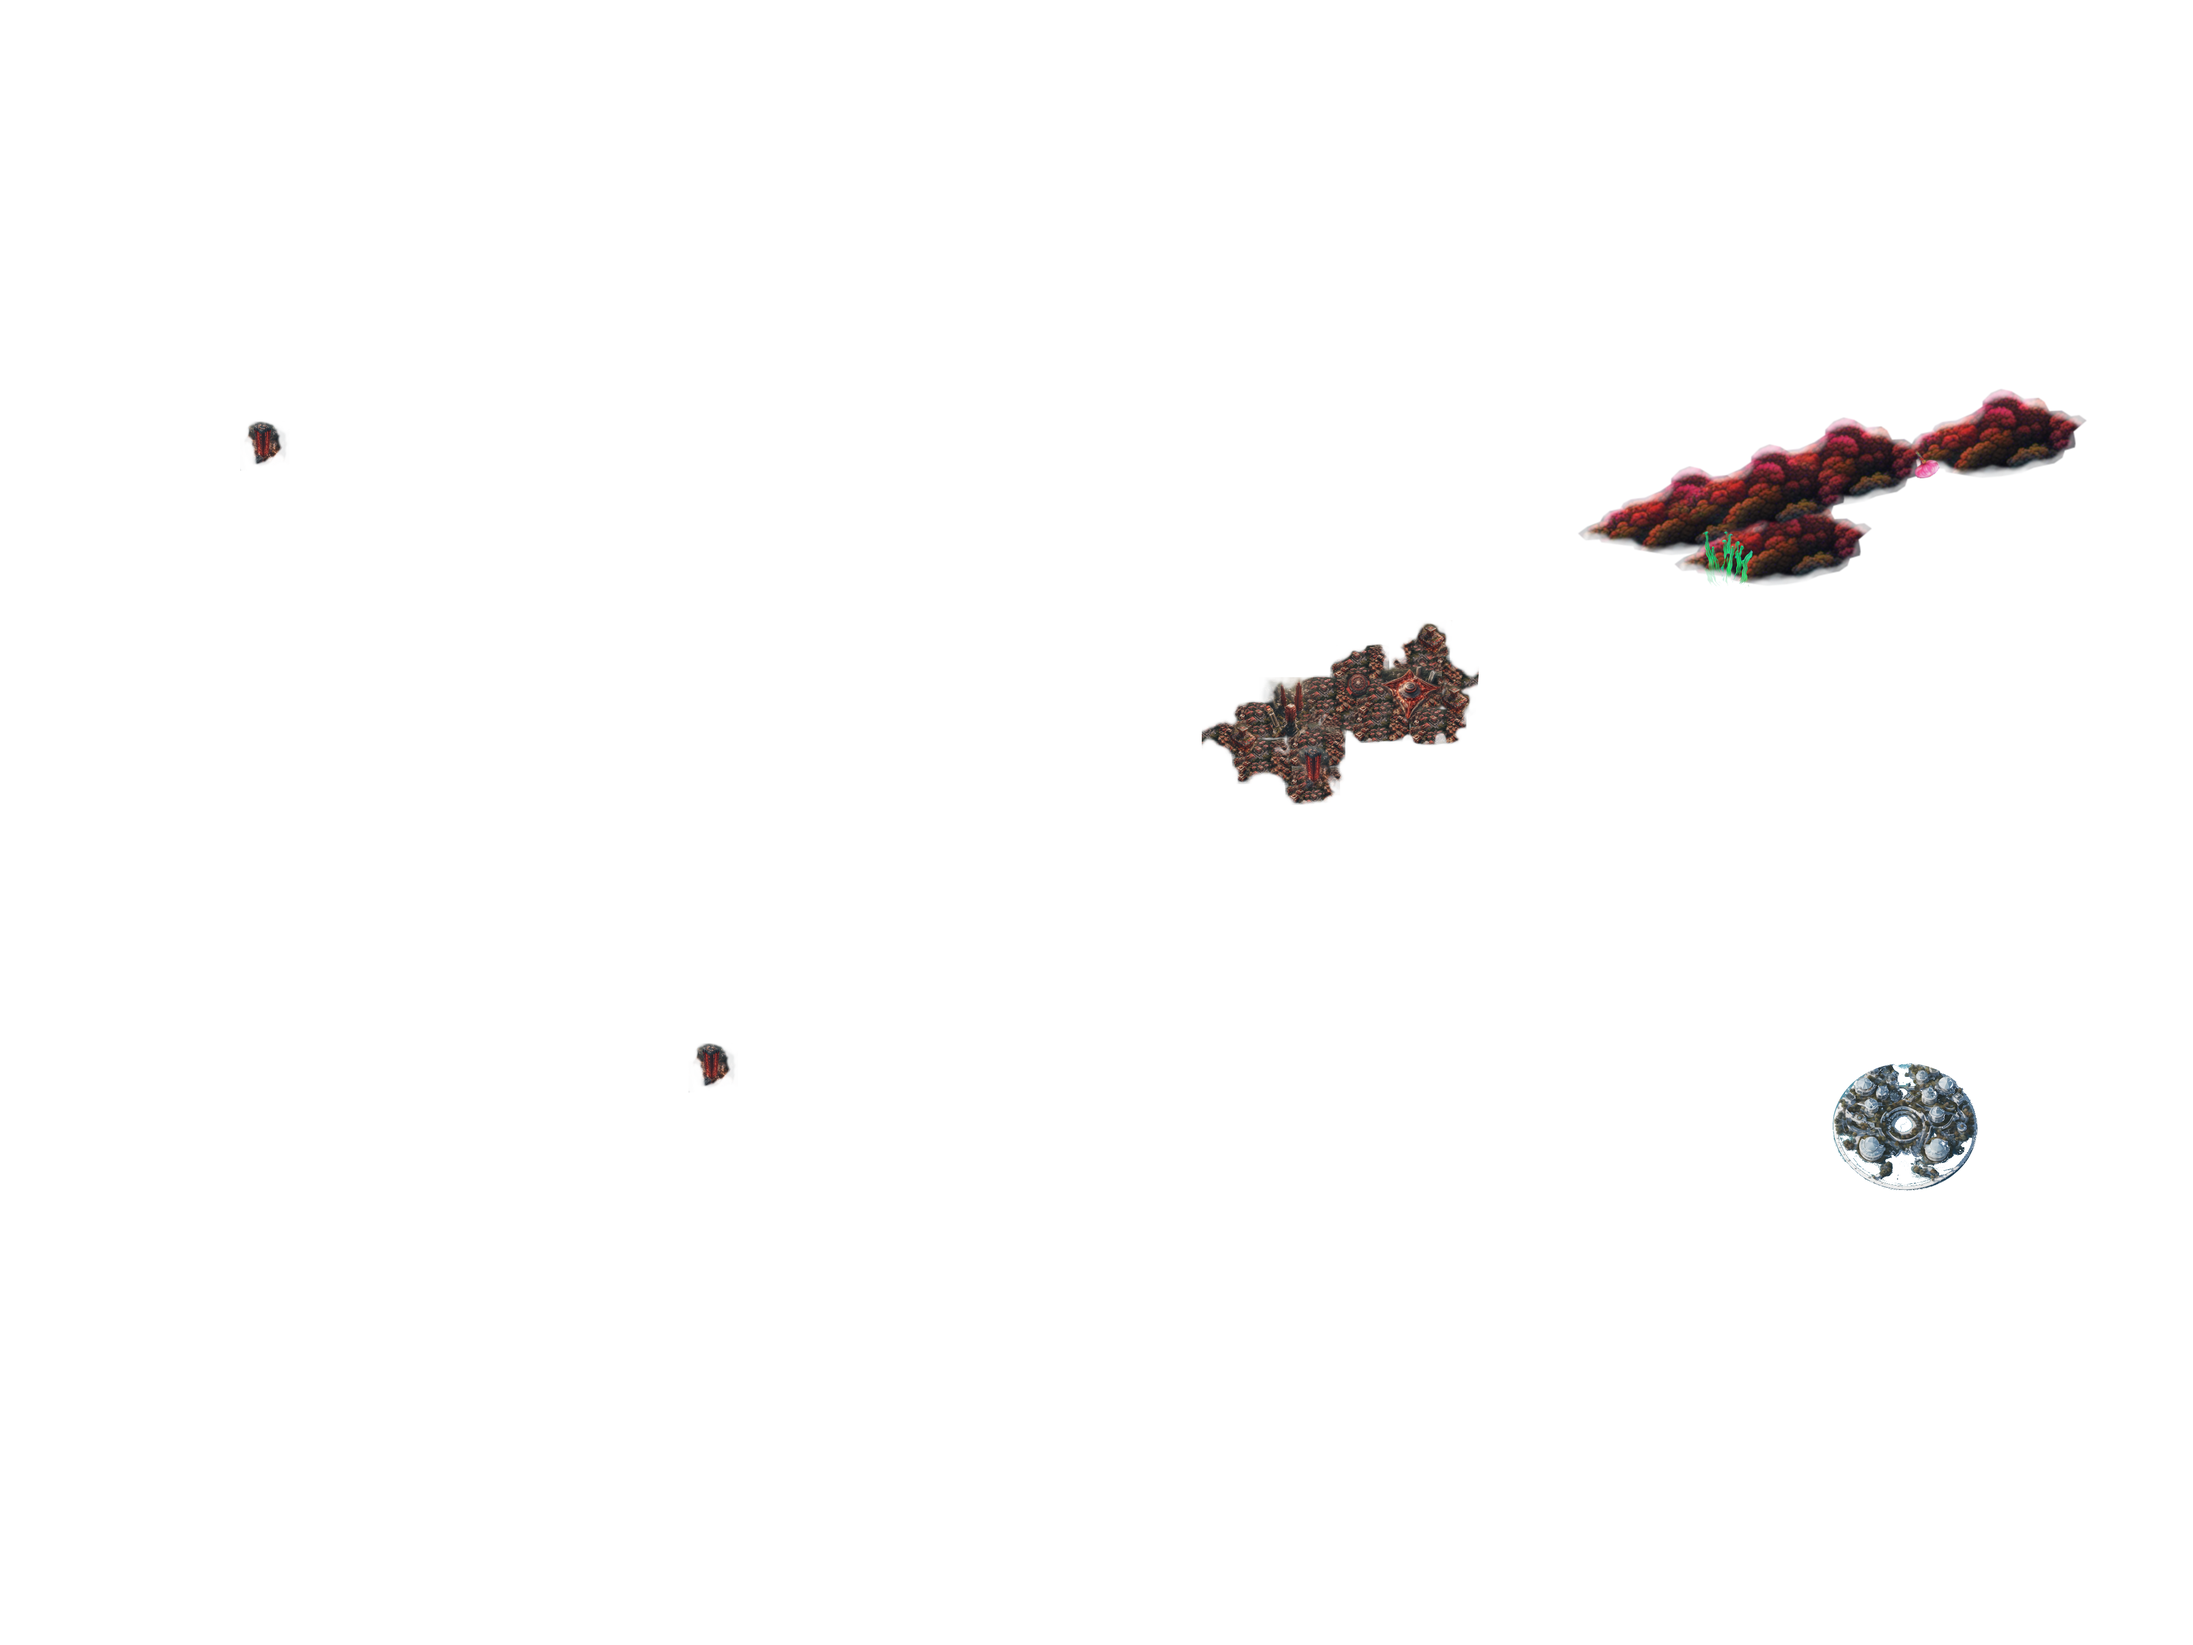
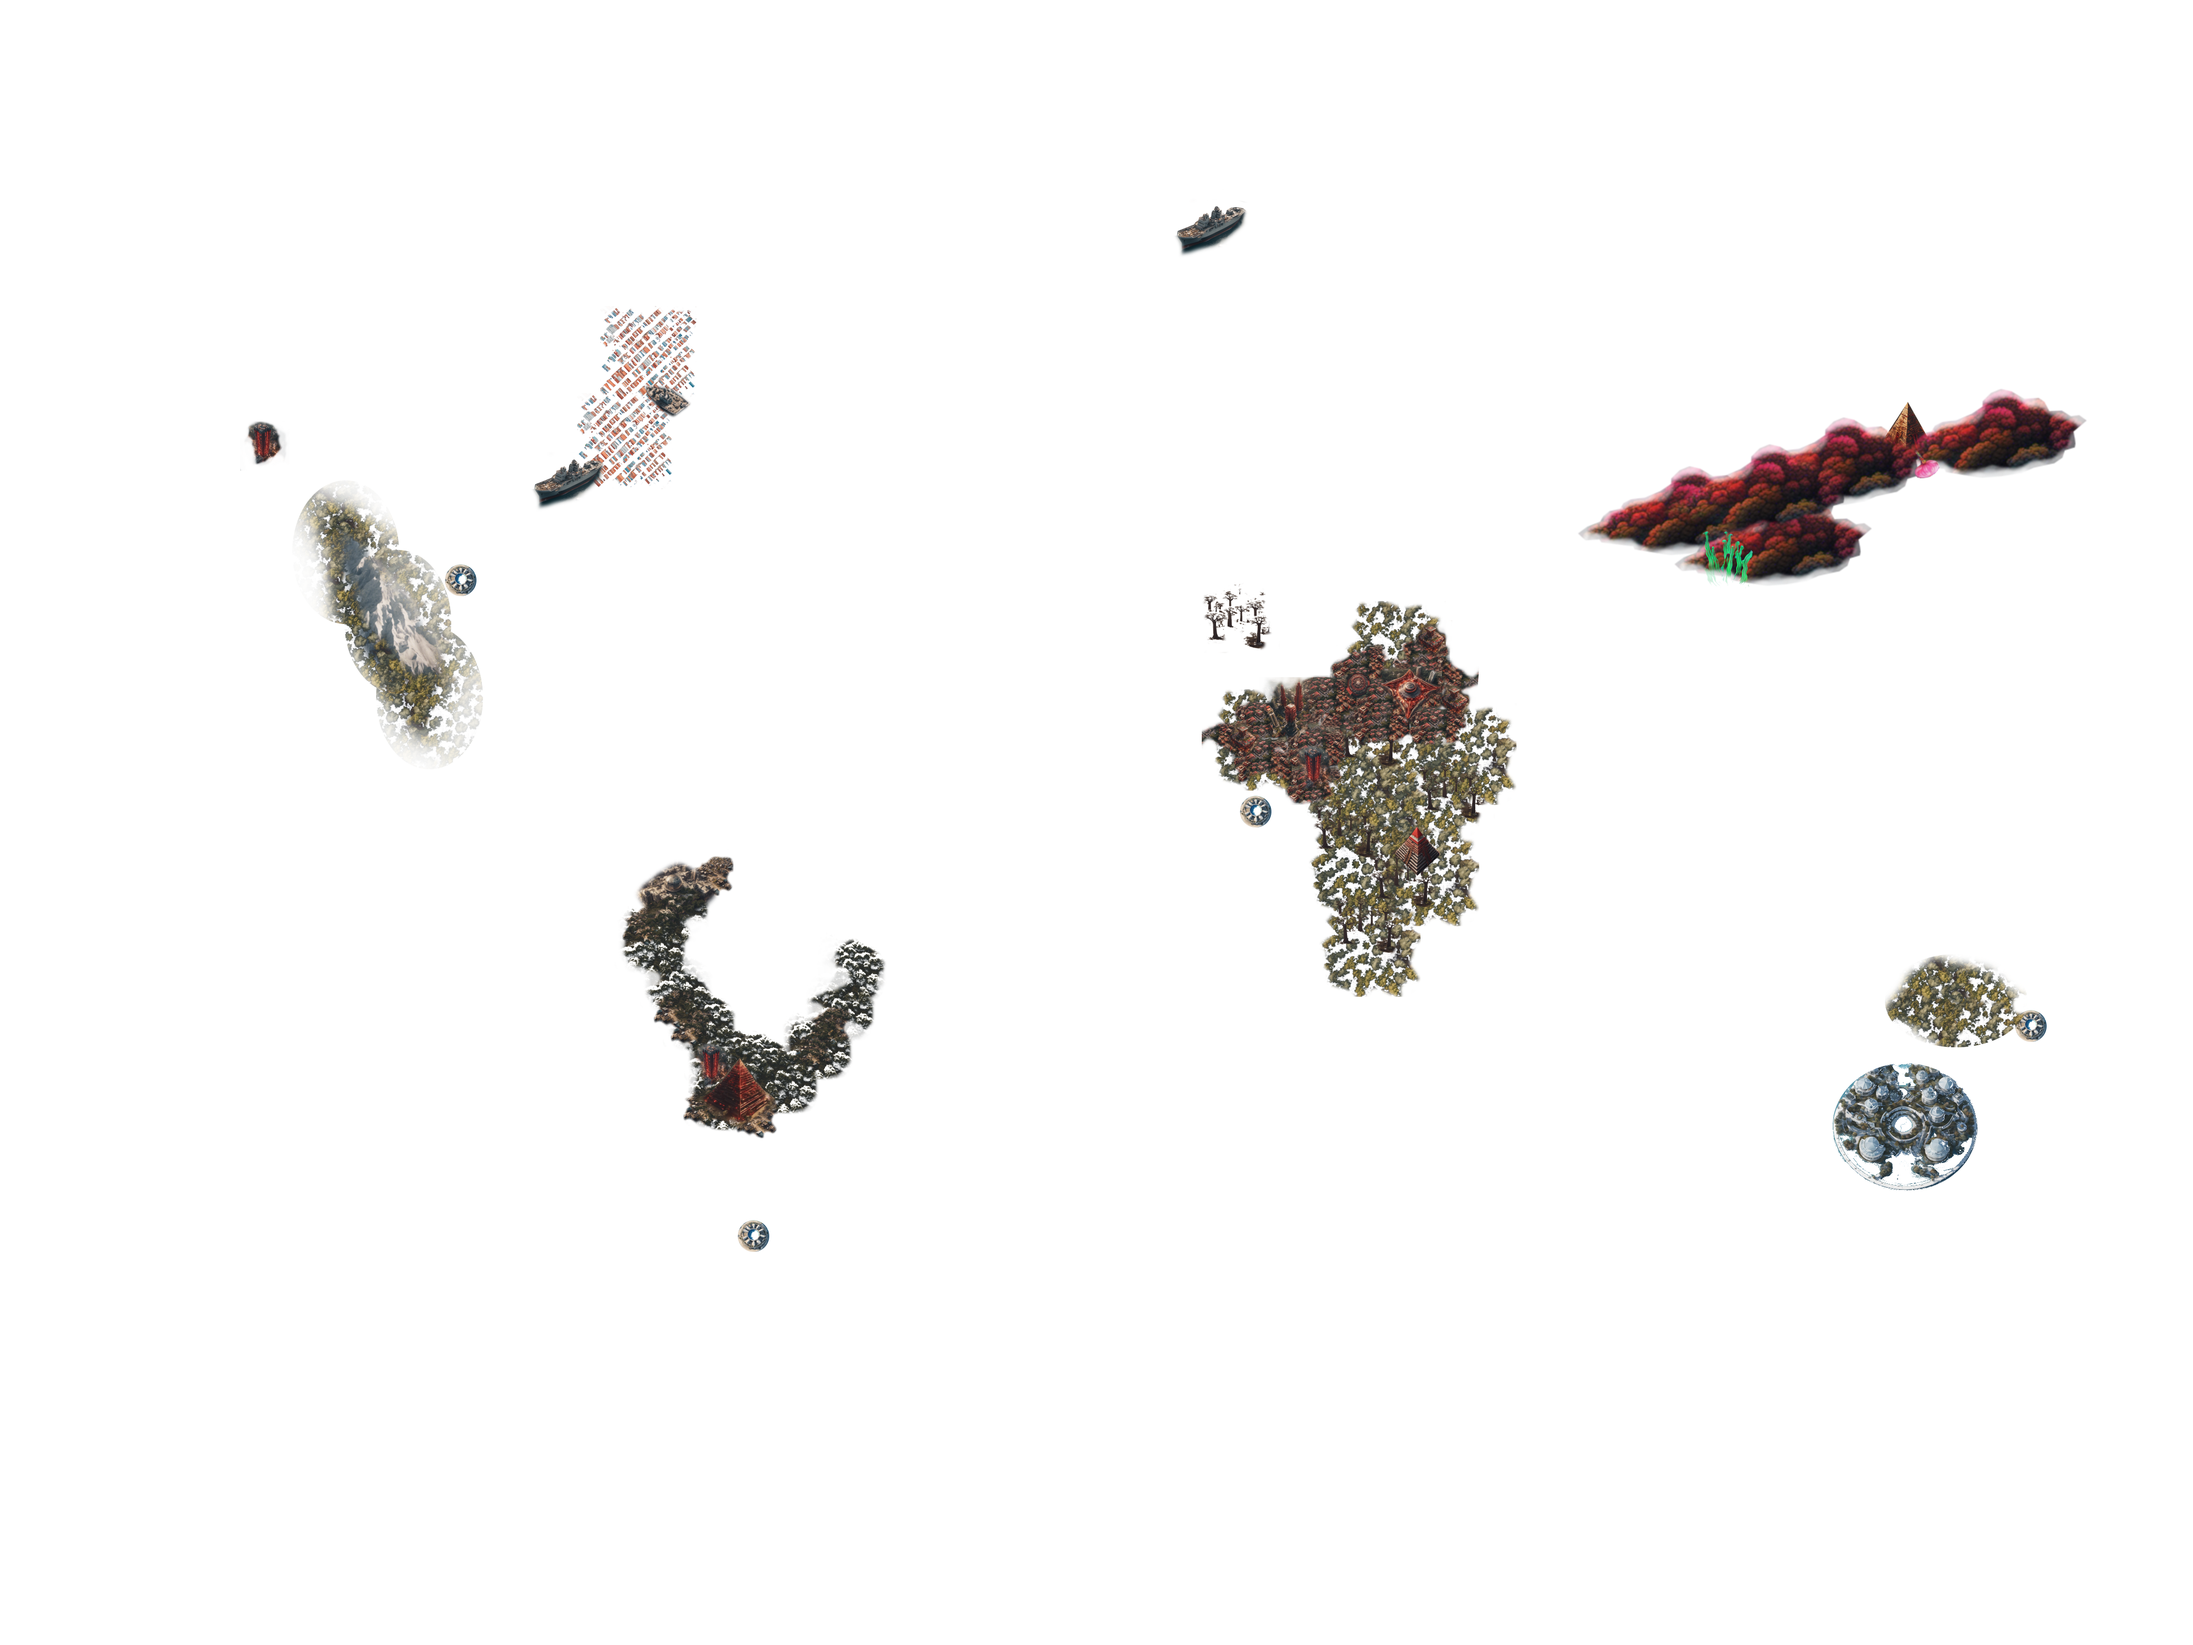
v2.2
update building layer
added light layer
attempy cloud reversal

diff --git a/script.js b/script.js
@@ -59,6 +59,7 @@ function init() {
     const texturenucleus9 = loader.load('https://woodandmortar.com/salmonballot/webLayer.png');
     const texturenucleus10 = loader.load('https://woodandmortar.com/salmonballot/cloudLayer.png');
     const texturenucleus11 = loader.load('https://woodandmortar.com/salmonballot/textLayer.png');
+    const texturenucleus12 = loader.load('https://woodandmortar.com/salmonballot/lightLayer.png');
     const textureStar = loader.load("https://woodandmortar.com/salmonballot/jelly.png");
     const texture1 = loader.load("https://woodandmortar.com/salmonballot/jelly.png");
     const texture2 = loader.load("https://woodandmortar.com/salmonballot/jelly2.png");
@@ -209,9 +210,9 @@ transparent: true,
 opacity: 0.9,
 });
 const nucleus4 = new THREE.Mesh(icosahedronGeometry4, lambertMaterial4);
-nucleus4.rotation.copy((nucleus.rotation)*-1); // Copy rotation from the first nucleus
+nucleus4.rotation.copy(nucleus.rotation); // Copy rotation from the first nucleus
 scene.add(nucleus4);
-
+nucleus4.rotation.y -= 0.002;
 // End of Copy layer
 
 // Copy Layer
@@ -228,11 +229,24 @@ nucleus10.rotation.copy(nucleus.rotation); // Copy rotation from the first nucle
 scene.add(nucleus10);
 
 // End of Copy layer
+// Copy Layer
+texturenucleus12.anisotropy = 24;
+const nucleus12Radius = 125 * blobScale; // 10 units larger than the first nucleus
+const icosahedronGeometry12 = new THREE.IcosahedronGeometry(nucleus12Radius, 10);
+const lambertMaterial12 = new THREE.MeshPhongMaterial({
+map: texturenucleus12,
+transparent: true,
+opacity: 0.9,
+});
+const nucleus12 = new THREE.Mesh(icosahedronGeometry12, lambertMaterial12);
+nucleus12.rotation.copy(nucleus.rotation); // Copy rotation from the first nucleus
+scene.add(nucleus12);
 
+// End of Copy layer
 
 // Copy Layer
 texturenucleus11.anisotropy = 24;
-const nucleus11Radius = 130 * blobScale; // 10 units larger than the first nucleus
+const nucleus11Radius = 150 * blobScale; // 10 units larger than the first nucleus
 const icosahedronGeometry11 = new THREE.IcosahedronGeometry(nucleus11Radius, 10);
 const lambertMaterial11 = new THREE.MeshPhongMaterial({
 map: texturenucleus11,
